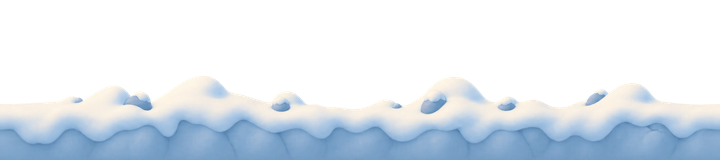
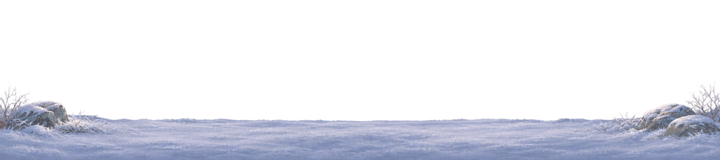
feat(ui): 重绘后四关战场并丰富环境动效

Changed region(s): [[0.0, 0.4688, 1.0, 1.0]]

diff --git a/scripts/battle/parallax.js b/scripts/battle/parallax.js
@@ -1,7 +1,7 @@
 // scripts/battle/parallax.js
 // 战斗区远中近景视差(00 文档 3.1 节,FR-1.5):
 //   远景 0.15:天空渐变(晨→昏随波次推移)+太阳/云/远山剪影,云随 tile 横移循环 60~90s
-//   中景 0.45:树丛/岩丘剪影+雾带平移,飘叶粒子(≤20,上浮+横飘)
+//   中景 0.45:树丛/岩丘剪影、薄雾与分关卡环境粒子(≤20)
 //   近景 1.0 :草地+草丛簇正弦摆动(±3°,2~3s 周期)+花石点缀
 // 约束:三层各为预渲染离屏 canvas tile,每帧每层 drawImage ≤2 次;粒子总数 ≤40;
 //      程序化绘制,不新增贴图依赖;动效可整体关闭(关闭后功能不受影响)。
@@ -16,13 +16,24 @@ const LOOP_W = TILE_W;          // 循环周期宽(tile 本身可无缝首尾相
 const NEAR_SPEED = 60;                    // 1.0
 const MID_SPEED = NEAR_SPEED * 0.45;      // 27 px/s
 const FAR_SPEED = NEAR_SPEED * 0.15;      // 9 px/s → 远景(含云)一圈 720/9 = 80s,落在 60~90s 区间
-const LEAF_MAX = 20;            // 飘叶上限(中景)
 const SHAKE_AMP = 4;            // screenshake 幅度 px
 const SHAKE_TIME = 0.12;        // screenshake 时长 s
 
 // 晨→昏天空色随波次推移(w_local 1..10 线性内插,草案色值,集中此处调参)
 const SKY_TOP = [[126, 200, 227], [86, 96, 158]];    // 晨 → 昏
 const SKY_BOT = [[201, 236, 245], [66, 58, 96]];
+const AMBIENCE = {
+  meadow: { count: 16, vx: -18, vy: 11, size: 2.1, stretch: 1.65, color: 'rgba(204,214,145,.64)',
+    haze: 'rgba(232,243,214,.13)', dusk: '90,50,70', duskOpacity: 0.25, boss: 'rgba(30,20,50,.22)' },
+  swamp: { count: 14, vx: 10, vy: -7, size: 1.8, stretch: 1.1, color: 'rgba(205,240,181,.7)',
+    haze: 'rgba(188,236,213,.19)', dusk: '41,64,72', duskOpacity: 0.22, boss: 'rgba(30,29,56,.24)' },
+  mist: { count: 12, vx: -23, vy: 4, size: 1.65, stretch: 2.2, color: 'rgba(226,240,247,.61)',
+    haze: 'rgba(227,244,252,.24)', dusk: '57,67,110', duskOpacity: 0.21, boss: 'rgba(35,34,63,.23)' },
+  snow: { count: 20, vx: 17, vy: 21, size: 2.05, stretch: 1, color: 'rgba(246,253,255,.87)',
+    haze: 'rgba(218,236,255,.14)', dusk: '67,76,124', duskOpacity: 0.22, boss: 'rgba(37,32,65,.24)' },
+  volcano: { count: 16, vx: -10, vy: -22, size: 2.05, stretch: 1.36, color: 'rgba(255,167,93,.74)',
+    haze: 'rgba(239,159,125,.13)', dusk: '78,45,63', duskOpacity: 0.13, boss: 'rgba(42,23,40,.18)' },
+};
 
 export class Parallax {
   constructor({ effects = true } = {}) {
@@ -34,7 +45,8 @@ export class Parallax {
     this.shakeDur = SHAKE_TIME; // 当前震屏总时长(M12 可变:喊话砸入 0.35s)
     this.shakeAmp = SHAKE_AMP;  // 当前震屏幅度(M12 可变:喊话砸入 5px)
     this.pulseT = -1;         // 技能 zoom pulse 计时(−1=未激活)
-    this.leaves = [];         // 飘叶粒子 {x,y,vx,vy,s}
+    this.ambientParticles = [];
+    this.haze = null;
     this.far = null; this.mid = null; this.near = null;
     this._skyKey = '';
     this.imgs = {};           // M13:分关卡背景图 {far:<img>, near:<img>}(未绑定走程序化兜底)
@@ -55,6 +67,8 @@ export class Parallax {
     if (theme === this._theme) return; // 同主题免重绑
     this._theme = theme;
     this.imgs.far = null; this.imgs.near = null; // 待 main 重新 bindImages(按新主题 key)
+    this.ambientParticles.length = 0;
+    this.haze = null;
   }
 
   _themeKey() { return this._theme || 'meadow'; }
@@ -169,17 +183,23 @@ export class Parallax {
       if (this.pulseT > 0.3) this.pulseT = -1; // pulse 0.3s:1.0→1.02→1.0
     }
     if (!this.effects) return;
-    // 飘叶粒子补充(≤20)
-    while (this.leaves.length < LEAF_MAX) {
-      this.leaves.push({
-        x: Math.random() * TILE_W, y: BATTLE_H - 100 - Math.random() * 200,
-        vx: -14 - Math.random() * 12, vy: 8 + Math.random() * 10,
-        s: 2 + Math.random() * 2,
+    const style = AMBIENCE[this._themeKey()];
+    while (this.ambientParticles.length < style.count) {
+      this.ambientParticles.push({
+        x: Math.random() * TILE_W, y: 68 + Math.random() * 320,
+        vx: style.vx * (0.6 + Math.random() * 0.8),
+        vy: style.vy * (0.6 + Math.random() * 0.8),
+        radius: style.size * (0.65 + Math.random() * 0.7),
+        angle: Math.random() * Math.PI,
       });
     }
-    for (const l of this.leaves) {
-      l.x += l.vx * dt; l.y += l.vy * dt;
-      if (l.x < -8 || l.y > BATTLE_H) { l.x = TILE_W + Math.random() * 80; l.y = 60 + Math.random() * 200; }
+    for (const p of this.ambientParticles) {
+      p.x += p.vx * dt;
+      p.y += p.vy * dt;
+      if (p.x < -8) p.x = TILE_W + 8;
+      if (p.x > TILE_W + 8) p.x = -8;
+      if (p.y < 56) p.y = 407;
+      if (p.y > 407) p.y = 56;
     }
   }
 
@@ -200,39 +220,18 @@ export class Parallax {
 
   // ---- 绘制(每层 drawImage ≤2 次;ctx 已平移/缩放到战斗区坐标) ----
   draw(ctx) {
-    // M13:分关卡背景图(绑定时替代远+中+近程序化层;静态铺底,不再横移)
-    if (this.imgs.far && this.imgs.far.complete && this.imgs.far.naturalWidth) {
+    const style = AMBIENCE[this._themeKey()];
+    const hasFar = this.imgs.far?.complete && this.imgs.far.naturalWidth;
+    if (hasFar) {
       ctx.drawImage(this.imgs.far, 0, 0, TILE_W, BATTLE_H);
-      // 波次晨→昏 tint(替代程序化天空渐变烘焙;alpha 随波次加深)
-      const k = (this.wave - 1) / 9;
-      if (k > 0) {
-        ctx.fillStyle = `rgba(90,50,70,${(0.32 * k).toFixed(3)})`;
-        ctx.fillRect(0, 0, TILE_W, BATTLE_H);
-      }
-      // 雾带+飘叶(保留动态层,画面不呆板)
-      if (this.effects) {
-        const fogX = (this.t * 6) % (TILE_W * 2);
-        ctx.fillStyle = 'rgba(255,255,255,.08)';
-        ctx.fillRect(-fogX, 300, TILE_W, 60);
-        ctx.fillRect(TILE_W * 2 - fogX, 300, TILE_W, 60);
-        ctx.fillStyle = 'rgba(180,200,120,.8)';
-        for (const l of this.leaves) ctx.fillRect(l.x, l.y, l.s, l.s);
-      }
     } else {
       // 程序化兜底(图未绑定:单测/演示)
       const fx = this.effects ? (this.t * FAR_SPEED) % LOOP_W : 0;
       this._drawLooped(ctx, this.far, fx);
       const mx = this.effects ? (this.t * MID_SPEED) % LOOP_W : 0;
       this._drawLooped(ctx, this.mid, mx);
-      if (this.effects) {
-        const fogX = (this.t * 6) % (TILE_W * 2);
-        ctx.fillStyle = 'rgba(255,255,255,.08)';
-        ctx.fillRect(-fogX, 300, TILE_W, 60);
-        ctx.fillRect(TILE_W * 2 - fogX, 300, TILE_W, 60);
-        ctx.fillStyle = 'rgba(180,200,120,.8)';
-        for (const l of this.leaves) ctx.fillRect(l.x, l.y, l.s, l.s);
-      }
     }
+    if (this.effects) this._drawAmbience(ctx, style);
     // 近景:绑定图替代 tile+程序化草丛;否则原口径
     if (this.imgs.near && this.imgs.near.complete && this.imgs.near.naturalWidth) {
       ctx.drawImage(this.imgs.near, 0, BATTLE_H - 160, TILE_W, 160);
@@ -241,11 +240,39 @@ export class Parallax {
       this._drawLooped(ctx, this.near, nx);
       if (this.effects) this._drawGrass(ctx);
     }
-    // Boss 波天色压暗 tint(画在层之上、实体之下)
-    if (this.bossWave) {
-      ctx.fillStyle = 'rgba(30,20,50,.28)';
+    // 远近景共用波次光照，首领额外压暗。实体和 HUD 在这些层之上绘制。
+    if (hasFar && this.wave > 1) {
+      ctx.fillStyle = `rgba(${style.dusk},${(style.duskOpacity * (this.wave - 1) / 9).toFixed(3)})`;
       ctx.fillRect(0, 0, TILE_W, BATTLE_H);
     }
+    if (this.bossWave) {
+      ctx.fillStyle = style.boss;
+      ctx.fillRect(0, 0, TILE_W, BATTLE_H);
+    }
+  }
+
+  _drawAmbience(ctx, style) {
+    if (this.haze?.ctx !== ctx) {
+      const gradient = ctx.createLinearGradient(0, 248, 0, 384);
+      gradient.addColorStop(0, 'transparent');
+      gradient.addColorStop(0.57, style.haze);
+      gradient.addColorStop(1, 'transparent');
+      this.haze = { ctx, gradient };
+    }
+    ctx.save();
+    ctx.globalAlpha = 0.74 + Math.sin(this.t * 0.66) * 0.24;
+    ctx.fillStyle = this.haze.gradient;
+    ctx.fillRect(0, 248, TILE_W, 136);
+    ctx.restore();
+    ctx.fillStyle = style.color;
+    ctx.beginPath();
+    for (const p of this.ambientParticles) {
+      const rx = p.radius * style.stretch;
+      const angle = p.angle + 0.22 * Math.sin(this.t * 2 + p.angle);
+      ctx.moveTo(p.x + rx * Math.cos(angle), p.y + rx * Math.sin(angle));
+      ctx.ellipse(p.x, p.y, rx, p.radius, angle, 0, Math.PI * 2);
+    }
+    ctx.fill();
   }
 
   _drawLooped(ctx, tile, off) {

diff --git a/scripts/ui/render.js b/scripts/ui/render.js
@@ -1711,14 +1711,27 @@ function drawMenuScreen(ctx, hud) {
         ctx.restore();
       }
     }
-    // Boss 缩略图(boss 序列帧首帧;缺图灰盒)
+    // 用已经预载的战场远景衬托本关首领，锁定关只预览场景。
     const th = 126, tx = 56, tyy = y + 22;
     ctx.fillStyle = '#efe9db';
     roundRect(ctx, tx, tyy, th, th, 16); ctx.fill();
+    const scene = hud.levelArt?.(i);
+    const hasScene = scene?.complete && scene.naturalWidth > 0 && scene.naturalHeight > 0;
+    if (hasScene) {
+      const side = Math.min(scene.naturalWidth, scene.naturalHeight);
+      const sx = (scene.naturalWidth - side) / 2;
+      const sy = (scene.naturalHeight - side) / 2;
+      ctx.save();
+      roundRect(ctx, tx, tyy, th, th, 16); ctx.clip();
+      ctx.drawImage(scene, sx, sy, side, side, tx, tyy, th, th);
+      ctx.fillStyle = unlocked ? 'rgba(250,240,218,.20)' : 'rgba(24,30,31,.63)';
+      ctx.fillRect(tx, tyy, th, th);
+      ctx.restore();
+    }
     // 需求方 2026-10-19 第三批:缩略图=该关 Boss 类型帧首帧(LEVEL_BOSS:fox/zombie/snake/tiger/boss)
     const bossImg = ENEMY_FRAMES[bossType(i)] && ENEMY_FRAMES[bossType(i)][0]; // 循环变量 i=关卡号
     if (!unlocked) {
-      ctx.fillStyle = '#c4b89e'; ctx.font = FONT(34);
+      ctx.fillStyle = hasScene ? '#fff2d7' : '#816f57'; ctx.font = FONT(34);
       ctx.fillText('🔒', tx + th / 2, tyy + th / 2 + 4);
       ctx.font = FONT(18); ctx.fillText('未解锁', tx + th / 2, tyy + th / 2 + 40);
     } else if (bossImg && bossImg.complete && bossImg.naturalWidth > 0) {

diff --git a/scripts/main.js b/scripts/main.js
@@ -9,7 +9,7 @@ import { attachInput } from './core/input.js';
 import { BoardEngine } from './board/engine.js';
 import { render, updateEnemyHealthViews } from './ui/render.js';
 import { FxLayer, bindCallImages } from './ui/fx.js';
-import { BattleHudView, bindHudImages } from './ui/battle_hud.js';
+import { BattleHudView, bindHudImages, themeOf } from './ui/battle_hud.js';
 import { sfx, bgm, bgmDebug } from './ui/audio.js';
 import { Charge } from './skills/charge.js';
 import { Caster } from './skills/cast.js';
@@ -235,9 +235,10 @@ function toggleBgm() {
 function toggleFx() {
   profile.settings.effects = profile.settings.effects === false; // false→true,其余→false
   engine.fxEnabled = profile.settings.effects;
+  parallax.effects = engine.fxEnabled;
   if (!engine.fxEnabled) hud.battleHud.waveCue = null;
   persistProfile();
-  showToast(`消除动效 ${profile.settings.effects ? '开' : '关'}`);
+  showToast(`动效 ${profile.settings.effects ? '开' : '关'}`);
   sfx.item();
 }
 
@@ -251,6 +252,7 @@ function boot(images) {
   // M13 HUD 上下文(只读转发:battle_hud._snapshot 消费)
   hud.heroImg = images.get('call:hero') || null; // 头像复用技能喊话立绘裁头部
   hud.levelName = () => LEVEL_META[(battle.level - 1) % LEVEL_META.length].name;
+  hud.levelArt = (level) => images.get(`bg:${themeOf(level)}:far`) || null;
   hud.skillImg = (id) => images.get(`icon:skills:${id}`) || null; // 技能图标(预载 Map 直取)
   hud.itemImg = (id) => images.get(`icon:items:${id}`) || null;
   hud.skillMeta = (id) => skillById(id);

diff --git a/sw.js b/sw.js
@@ -6,7 +6,7 @@
 // 相对路径: sw.js(仓库根,scope=部署目录;本地 dev 与 Pages 子路径均成立)
 
 const CACHE_PREFIX = 'ssww-cache-';
-const CACHE_VERSION = 'v3';
+const CACHE_VERSION = 'v4';
 const CACHE_NAME = CACHE_PREFIX + CACHE_VERSION;
 
 function fetchCurrent(req) {
@@ -14,7 +14,7 @@ function fetchCurrent(req) {
   const url = new URL(req.url);
   url.searchParams.set('_ssww_rev', CACHE_VERSION);
   // 以原请求为存储键，网络端按站点版本取资源，避免旧 HTTP 缓存写回新缓存。
-  return fetch(url, { cache: 'reload', credentials: req.credentials, headers: req.headers, redirect: req.redirect });
+  return fetch(url, { cache: 'no-cache', credentials: req.credentials, headers: req.headers, redirect: req.redirect });
 }
 
 self.addEventListener('install', (event) => {

diff --git a/docs/design/05-关卡设计.md b/docs/design/05-关卡设计.md
@@ -9,6 +9,8 @@
 - 难度映射：`w_global = (L−1)×10 + w_local`——第 N 关的数值强度等价于 roguelike 第 (N−1)×10+w 波，曲线天然随关卡号上移。
 - 关内无商店、无棋盘重置：三消棋盘整关连续使用（跨波保留，主角死亡才整局结束）。
 - 开战短暂显示「开战」，普通换波点亮进度刻度。首领波用首领实名播报、低音提示和脚下光圈区分，血条显示首领名字和当前生命值。播报期间可以照常操作棋盘，暂停时演出随战斗暂停。关闭消除动效时保留进度、首领血条和静态光圈。
+- 五关各用一张 720×448 的远景和一张 720×160 的透明近景。青葱丘林有飘叶，幽泽林间有湿地微光，雾隐山道有横掠薄雾，霜语雪原有缓落雪点，炎狱火山有上升余烬。远近景一起随波次调整光色，实体和 HUD 绘制在光照层之上。
+- 选关缩略图从战场远景裁切。已解锁关卡叠加首领形象，锁定关卡只显示压暗的场景和锁定标识。
 
 ## 2. 解锁与重打（D14）
 

diff --git a/docs/changelog.md b/docs/changelog.md
@@ -367,3 +367,4 @@
 - 消除增加格子高亮、聚拢拖尾、光圈和碎晶。战斗冒字按优先级错开，道具生效后显示实际剩余时间。
 - 开战与首领波增加短播报，普通换波通过进度条提示。首领血条显示实名，胜利结算显示关卡名和击破结果。
 - GitHub Pages 更新站点缓存至 v3，激活时只清理本游戏的旧缓存，网络请求携带缓存版本以更新回访浏览器的资源。
+- 重绘幽泽、山道、雪原和火山的远近景，选关缩略图复用战场素材。各关的环境粒子随动效开关启停。站点缓存更新至 v4。
